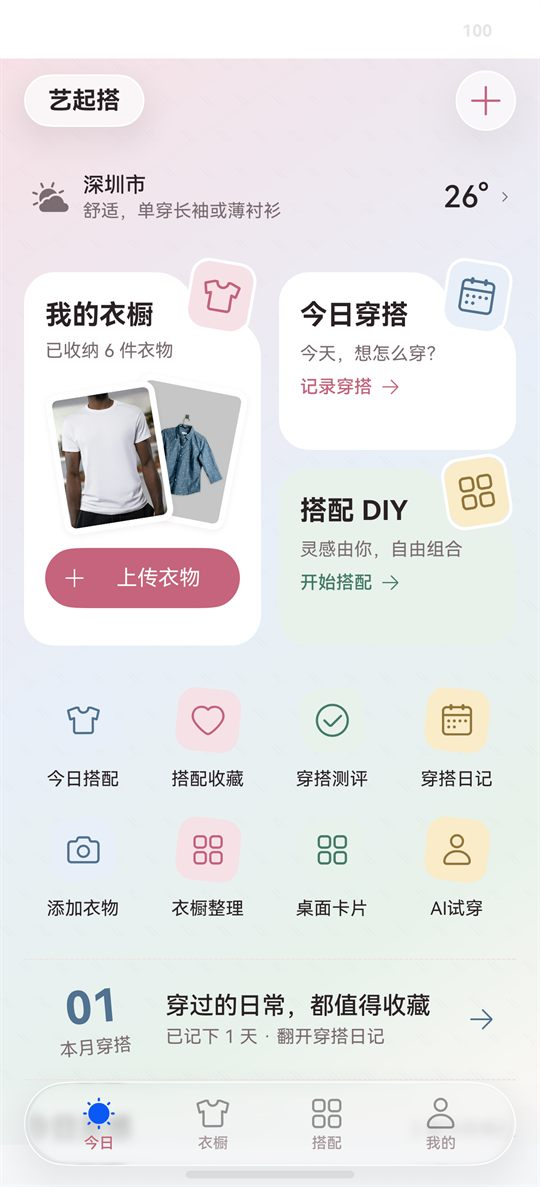
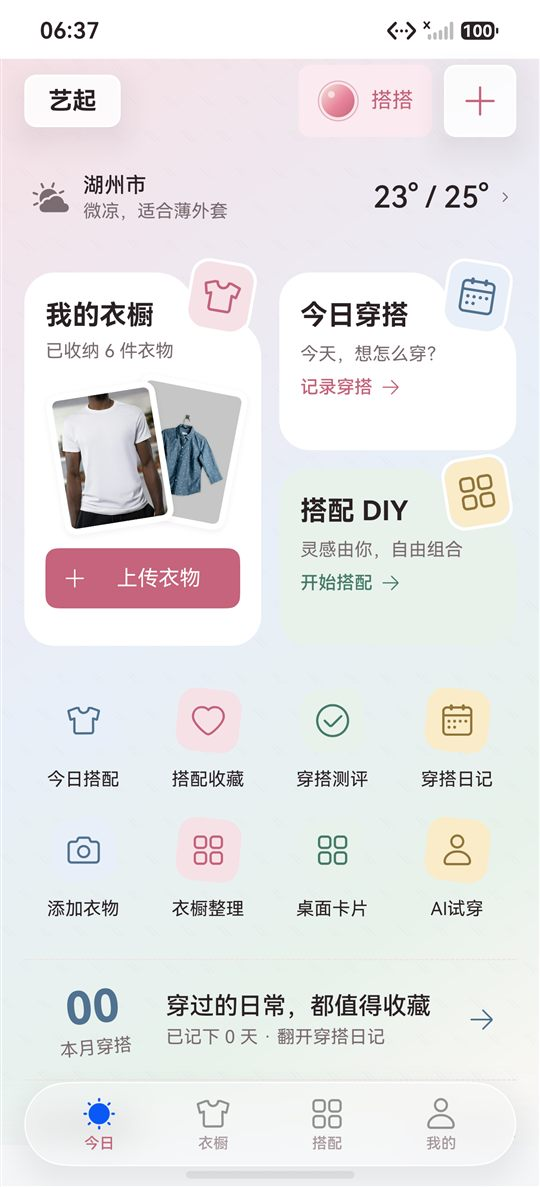
更新搭搭聊天实拍与比赛交接说明

diff --git a/README.md b/README.md
@@ -30,6 +30,12 @@
 > 不是本应用现场生成的结果，页面上也保留了 `DEMO / FASHN VTON 1.5` 标注。
 > 截图在入库前缩放到 540px 宽并转为 JPEG（原图见 `artifacts/`，由脚本重新生成，不入库）。
 
+<p align="center">
+  <img src="docs/images/dada-chat.jpg" width="34%" alt="搭搭聊天：用户在右、助手在左，快捷提示位于固定输入区上方" />
+</p>
+
+2026-09-30 的聊天优化保留原有全局配色：首页只留顶栏搭搭入口，聊天改为用户右侧、搭搭左侧，快捷提示紧邻固定输入区。回复先等待约一秒，再逐字展示；这只是本地回复的呈现效果，不代表调用了聊天云服务。最新安装包、实拍与复拍方法见 [搭搭交接说明](docs/DADA_DEMO_HANDOFF.md)。
+
 ## 目录
 
 - [当前范围](#当前范围)
@@ -46,7 +52,7 @@
 | 功能 | 当前实现 |
 | --- | --- |
 | 今日 | 天气条（真实天气取不到时退回手动温度并说明来源）、衣橱入口、今日穿搭与搭配 DIY 小卡、八宫格快捷入口、今日推荐、最近日记 |
-| 搭搭助手 | 各页顶栏统一光团入口，按当前页面提供推荐、图片建议、样片演示或操作引导；连续追问只更新候选，点击“采用这套”后先落盘再发布当前搭配 |
+| 搭搭助手 | 各页顶栏统一光团入口，用户消息在右、助手在左，固定输入区与横向快捷提示，约一秒等待后逐字回复；按页面提供推荐、图片建议、样片演示或引导；连续追问只更新候选，点击“采用这套”后先落盘再发布 |
 | 衣橱 | 搜索、品类与状态筛选、季节/标签检索、详情、五种状态切换（可穿/待洗/收纳/季节隐藏/已归档）、多选批量修改、单件“多推荐/少推荐/中性”反馈、紧凑与舒适两档视图 |
 | 批量录入 | 可从系统相册选图，也可直接选择 3 张随包示例照片；同一次录入最多 10 张，逐件确认名称/品类/颜色/适穿温度/场合；可运行随包 MindSpore Lite MobileNetV2 ImageNet 模型给出少量可映射衣物类别候选，并分析图片像素主色，均由用户决定是否采用；可搜索 70 多种细类并手填材质；失败可重试或跳过 |
 | 搭配工作台 | DIY 自由画布：拖动、缩放、旋转、调整层级、撤销重做、选择底色，最多 8 件；方案命名保存后可回到原画布继续编辑 |
@@ -89,8 +95,9 @@
 ## 已运行检查
 
 ```powershell
-node scripts/check-domain.cjs          # 127 项，包含 Index、天气与试穿过程接线
-node scripts/check-index.cjs           # 52 项（已包含在 check-domain 中）
+node scripts/check-domain.cjs          # 136 项，包含 Index、回复、天气与试穿过程接线
+node scripts/check-index.cjs           # 55 项（已包含在 check-domain 中）
+node scripts/check-assistant-reply.cjs # 6 项（已包含在 check-domain 中）
 node scripts/check-weather.cjs         # 4 项（已包含在 check-domain 中）
 node scripts/check-presentation.cjs    # 11 项（已包含在 check-domain 中）
 node scripts/check-ai.cjs              # 16 项，含静态 Kit 图片颜色接线
@@ -100,8 +107,8 @@ node scripts/check-migration.cjs       # 7 项
 node scripts/check-migration-host.cjs  # 5 项
 ```
 
-- **业务检查 127 项**：含真实 `Index` 接线 52 项、天气 4 项、试穿过程 11 项，覆盖候选不改快照、采用先落盘后发布、失败重试、天气交错、过期建议、六秒时序与生命周期取消。
-- **专项检查 41 项**：图片与端侧识别 16、助手意图 4、同步 9、迁移包 7、Picker 宿主 5。与业务检查合计 168 项；没有重复累加已包含的页面或过程检查。
+- **业务检查 136 项**：含真实 `Index` 接线 55 项、回复控制器 6 项、天气 4 项、试穿过程 11 项，覆盖候选不改快照、采用先落盘后发布、失败重试、天气交错、过期建议、一秒等待、逐字时序、重复操作门禁和生命周期取消。
+- **专项检查 41 项**：图片与端侧识别 16、助手意图 4、同步 9、迁移包 7、Picker 宿主 5。与业务检查合计 177 项；没有重复累加已包含的页面、回复或过程检查。
 - 检查直接转译并执行项目的 `.ets` 业务源文件，**不替代** ArkUI、系统 API 或真机测试。
 - 若本机没有 `node_modules/typescript`，可传入 DevEco 自带的 `typescript` 路径作为第一个参数。
 
@@ -112,6 +119,7 @@ node scripts/check-migration-host.cjs  # 5 项
 .\scripts\dump-ui.ps1 -ClickableOnly   # 只看可点击元素
 .\scripts\capture-demo.ps1             # 按演示路径自动抓取截图到 artifacts\demo
 .\scripts\capture-dada-tryon.ps1       # 在试穿页拍五张实际阶段截图并记录拍摄时间，不保存记录
+.\scripts\capture-assistant-reply.ps1 # 在搭搭面板拍等待、逐字、完成三帧，只提问、不采用方案
 ```
 
 `capture-demo.ps1` 会真实操作应用：温度通过在滑块上点击并读取滑块自身数值来确认，控件位置全部从实时布局读取，每一步都校验预期文本，失败即报错而不是产出错图。

diff --git a/docs/DADA_DEMO_HANDOFF.md b/docs/DADA_DEMO_HANDOFF.md
@@ -1,5 +1,31 @@
 # 搭搭功能与比赛拍摄交接（2026-09-30）
 
+## 聊天优化版更新（本日后续交付）
+
+请优先使用 `artifacts/dada-chat-20260930-182248/Yi_Da-dada-chat.hap`，已在同一鸿蒙 7 模拟器覆盖安装；交接 ZIP 为 `artifacts/Yi_Da-dada-chat-handoff-20260930.zip`。上一版 ZIP 与六秒试穿过程截图继续保留，下面原有交接记录描述的是前一版的拍摄事实。手机仍需要设备签名，实机统一测试尚未进行。
+
+本版恢复并保留其它页面原有的玫瑰/蓝/绿/米黄配色及首页渐变。首页重复搭搭卡片已移除，只留顶栏入口；聊天采用用户在右、搭搭在左，固定输入区和上方横向快捷提示，缩小候选卡、按钮和圆角。回复先等待约一秒再逐字展示，完成后出现候选；逐字期间仍可编辑下一条草稿。没有新增聊天服务，等待与逐字只是本地回复的呈现。
+
+拍摄聊天时，从首页顶栏打开搭搭，点“正式一点”，连续拍约四秒，随后展示候选卡的场合/温度和“采用这套”。本版将推荐理由收成可展开项，不再显示旧版“采用后更新为…”或每轮准备成功的小字；采用仍沿用先落盘再发布的原流程。
+
+最新实拍目录为 `artifacts/dada-chat-20260930-182248/`：
+
+- `14-final-home.png`：保留原配色、只留顶栏搭搭入口的首页。
+- `final-reply/reply-wait.png`、`reply-typing.png`、`reply-done.png`：真实等待、逐字和完成画面；同目录 `reply-timing.json` 记录命令时间，不能把主机截图时间当成精确动画帧时间。
+- `06-history-scrolled.png`、`07-close-reopen.png`：滚动历史和回复中关闭后重开的画面。
+- `09-dark-assistant.png`、`10-large-assistant.png`、`11-large-candidate.png`：深色、系统“超大”字号与候选布局。
+- `12-tryon-page.png`、`13-tryon-assistant.png`：页面与助手持续保留“固定离线样片 · 非实时生成”。
+
+复拍等待/逐字/完成三帧，先打开搭搭面板，让“正式一点”快捷按钮可见，再运行：
+
+```powershell
+.\scripts\capture-assistant-reply.ps1 -OutDir '.\artifacts\dada-chat\reply'
+```
+
+脚本只提问，不采用方案、不保存记录。目标截图时间为点击命令返回后 0.05 / 1.25 / 4.0 秒，须按实际截图内容核对阶段；截图不是录屏。
+
+本版 API 26 构建成功，自动检查 177/177（业务 136 + 专项 41）。真实设备检查涵盖消息左右位置、固定输入区、多轮、回复中关闭重开与后台返回、深色和超大字号。结束时快照与开始前逐字段一致，系统恢复为浅色/标准字号，应用停在首页。键盘首次协议未代用户接受，因此键盘实际输入未验证；旧版试穿保存、导出和分享证据未被计作本轮重新执行。
+
 本轮已实现应用内“搭搭”：各页顶栏入口、暖玫瑰光团、页面引导、聊天候选后确认采用，以及六秒试穿样片过程。队友可以直接在运行中的应用拍摄这些交互，视频和 PPT 仍由队友制作。
 
 ## 对外介绍的事实边界

diff --git a/docs/DEVELOPMENT_STATUS.md b/docs/DEVELOPMENT_STATUS.md
@@ -1,5 +1,17 @@
 # 开发接手与验收记录
 
+## 2026-09-30 搭搭聊天布局与交互优化
+
+- 首页移除与顶栏重复的搭搭卡片，保留顶栏统一入口。全局浅色/深色配色资源、首页渐变和光团颜色保持上一版；聊天面板单独减少大面积色块，卡片/按钮/输入框圆角适当收小。
+- 用户消息靠右、搭搭靠左，去掉每条消息重复的身份标题；短消息气泡随内容收窄。快捷提示移到输入栏上方的一行横向列表，历史消息滚动时输入区与提示保持固定；键盘避让使用 API 26 的 `RESIZE_ONLY`。
+- 新增生产 `AssistantReplyController`：等待 1000ms，再逐字展示完整回复；长回复分组展示，避免操作长时间不可用，不切断 emoji 代理对。等待和逐字期间拦截重复发送与采用，输入草稿仍可编辑。关闭、后台和销毁取消计时器并使旧回调失效；完整历史不依赖动画，不清理表单图片。
+- 移除助手顶部重复说明、每轮成功提示、录入建议里的英文标签/模型分数/算法来源和日记里的实现说明。保留失败后的操作提示、人工确认和“固定离线样片 · 非实时生成”能力说明。
+- 自动检查：业务 136/136，含 Index 接线 55、回复控制器 6、天气 4、试穿过程 11；识别 16、助手意图 4、同步 9、迁移 7、Picker 宿主 5，合计 177/177。API 26 ArkTS/HAP 构建成功，`git diff --check` 通过。没有重复累加被业务检查包含的项目。
+- 鸿蒙 7 模拟器已实际核对：人右/搭搭左、等待/逐字/完成三帧、固定输入区、历史滚动、多轮提问、回复中关闭重开和后台返回、深色与系统超大字号、试穿助手持续说明。截图与命令时间在 `artifacts/dada-chat-20260930-182248/`；`capture-assistant-reply.ps1` 可复拍，不采用或保存搭配。
+- 本轮只提问和浏览，未采用候选、导入衣物或保存试穿。结束时快照与开始前逐字段一致：6 件衣物、上课 24℃、`tee/jeans/shoes`、0 条试穿记录。系统恢复为浅色、标准字号，应用停在首页。
+- 实机及其它屏幕尺寸继续延期。输入法首用协议未代用户接受，设备验证使用快捷提示，键盘实际输入未验证。逐字回复属于本地呈现，没有新接入聊天服务。
+- 新安装包和交接 ZIP 见 [DADA_DEMO_HANDOFF.md](DADA_DEMO_HANDOFF.md) 顶部更新；此前的六秒过程证据仍保留为历史记录。
+
 ## 2026-09-30 搭搭全局陪伴与六秒试穿演示
 
 - 各页顶栏统一“光团＋搭搭”，首页原入口同步名称与形象；待机和完成只播放一次反馈，循环只用于实际图片分析或试穿过程，后台和销毁停止计时。
